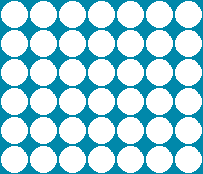
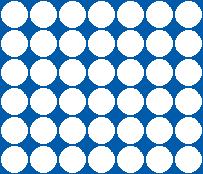
teste modal

diff --git a/assets/css/style.css b/assets/css/style.css
@@ -98,7 +98,7 @@ body::after{
     position: absolute;
     border-left: 0px solid transparent;
     border-right: 8px solid transparent;
-    border-bottom: 182px solid rgba(40, 136, 192, 0.747);
+    border-bottom: 182px solid rgba(#005baa73);
     border-radius: 0px 20px 20px 0px;
     width: 5px;
     bottom: 0;
@@ -109,7 +109,7 @@ body::after{
     position: absolute;
     border-left: 0px solid transparent;
     border-right: 8px solid transparent;
-    border-bottom: 182px solid rgba(40, 136, 192, 0.747);
+    border-bottom: 182px solid rgba(#005baa73);
     border-radius: 20px 0px 0px 20px;
     width: 5px;
     bottom: 0;
@@ -129,9 +129,6 @@ body::after{
       border-left: none;
 
       cursor: pointer;
-    }
-    .line:nth-child(1) {
-      border-left: 2px solid black;
     }
 
   #container2 {
